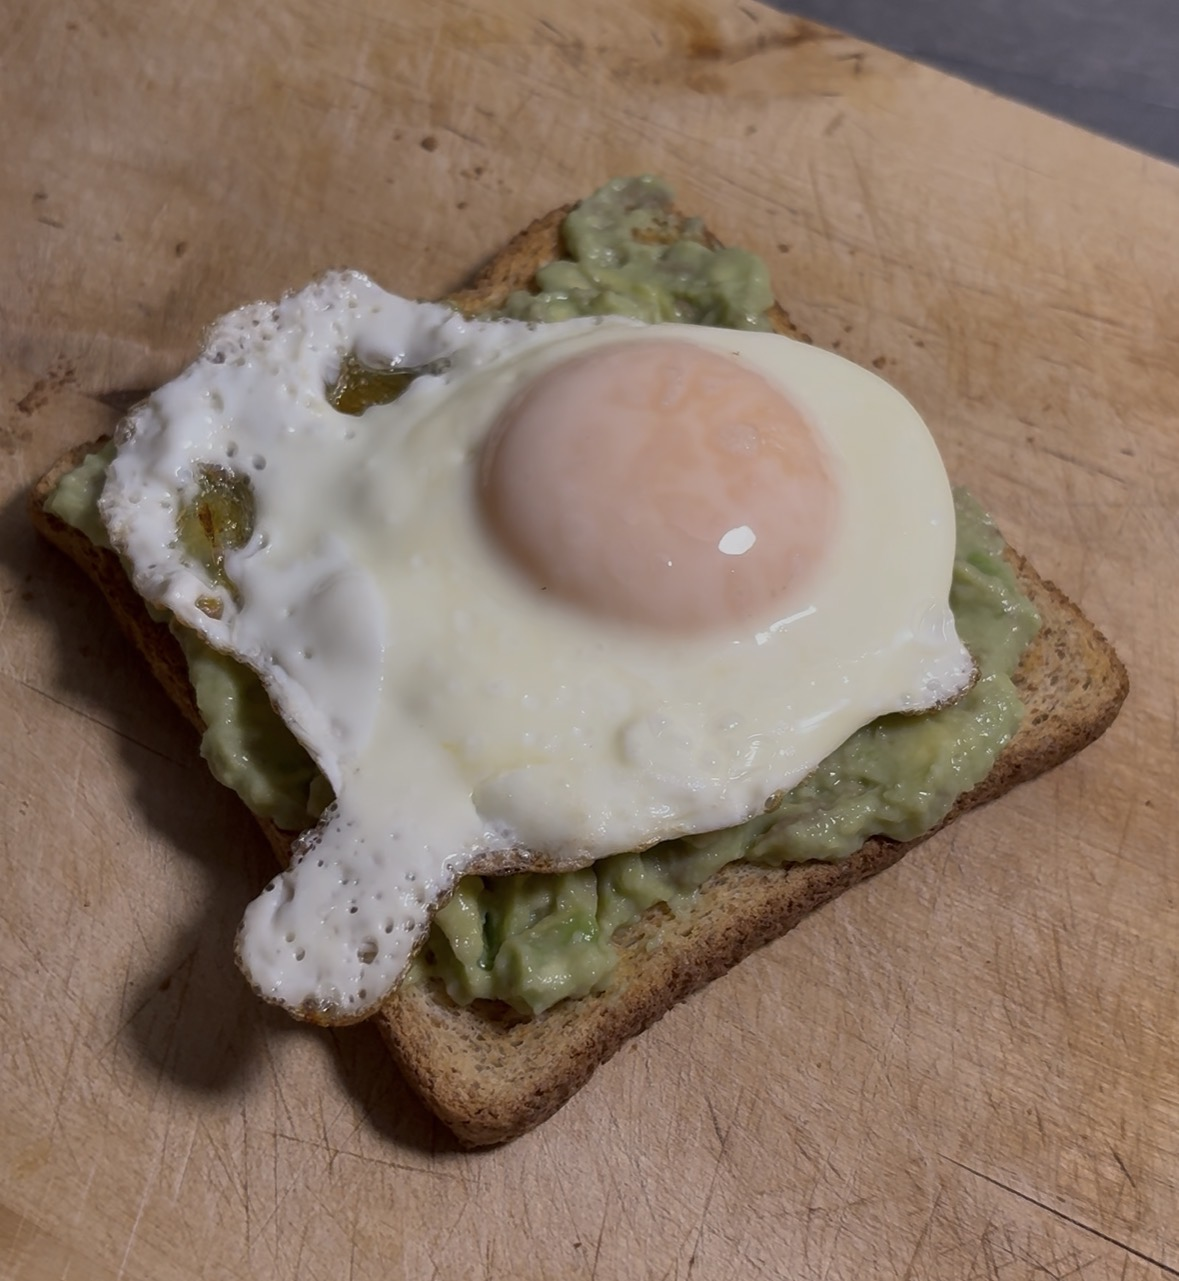
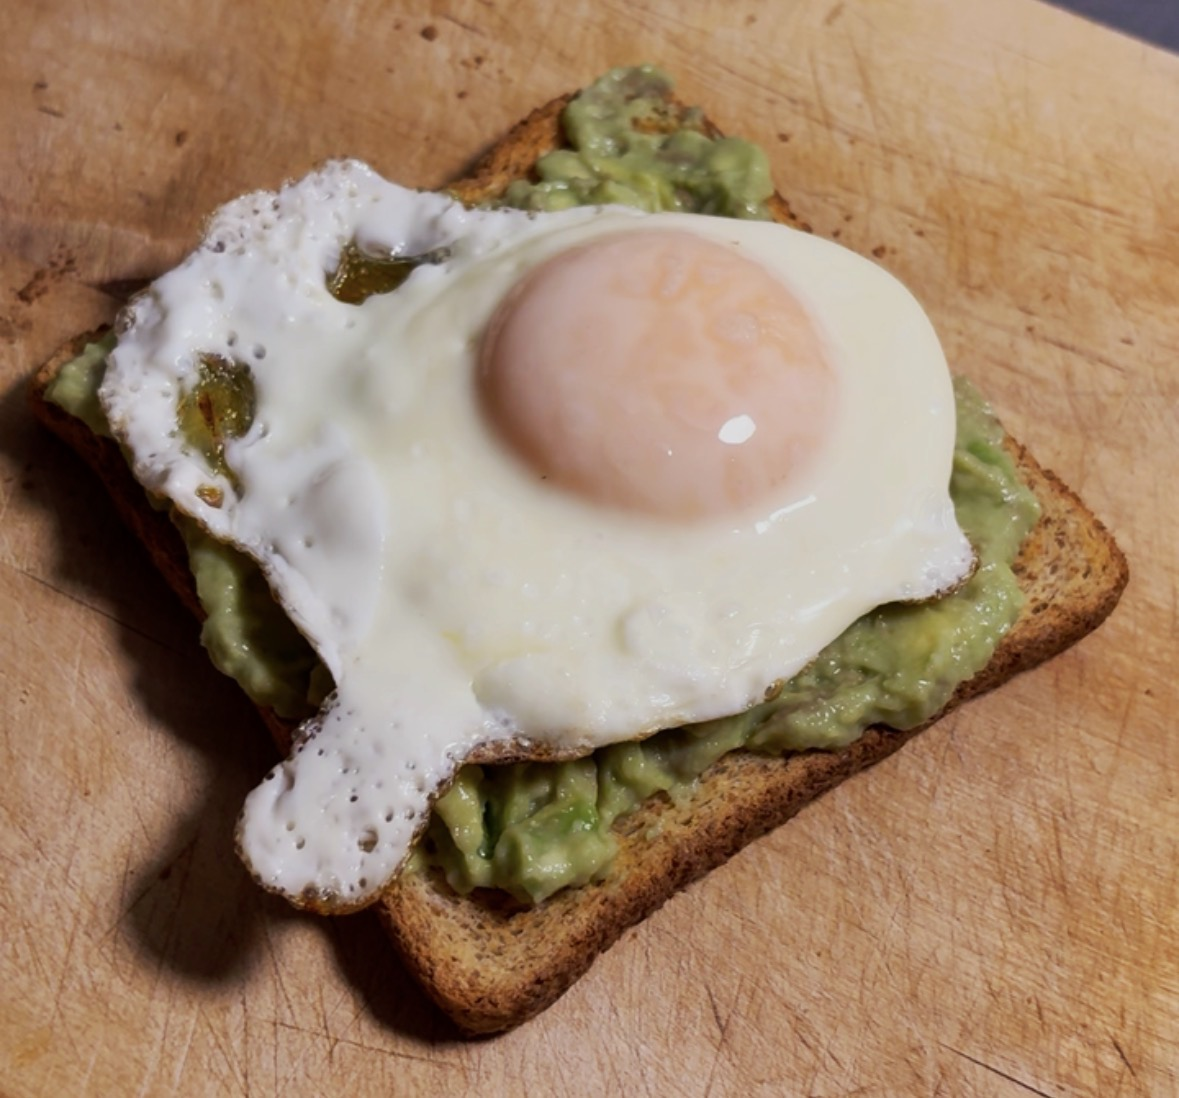
ss

diff --git a/data.js b/data.js
@@ -668,7 +668,7 @@ const recettes = {
         },      
         { 
             texte: "Ajouter la pâte de curry et faire revenir pendant 1 minute pour libérer les arômes.", 
-            photo: "recette/curry_crevettes/epice.jpg"  // Chemin de ta photo d'étape
+            photo: "recette/curry_crevettes/epices.jpg"  // Chemin de ta photo d'étape
         },
         { 
             texte: "Verser le lait de coco, porter à ébullition, puis réduire le feu et laisser mijoter pendant 10 minutes.", 